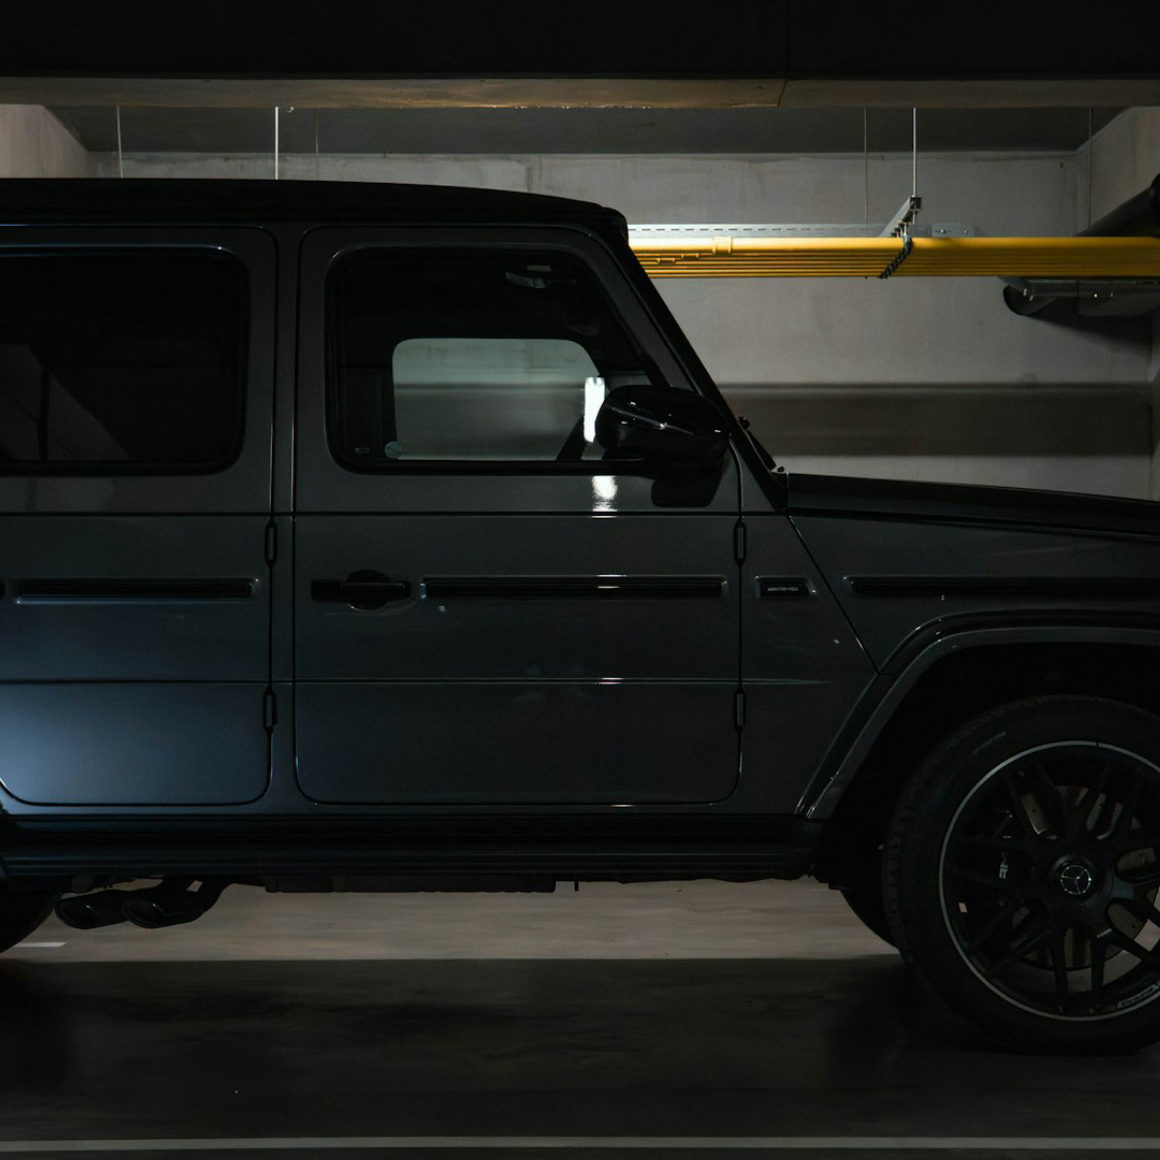
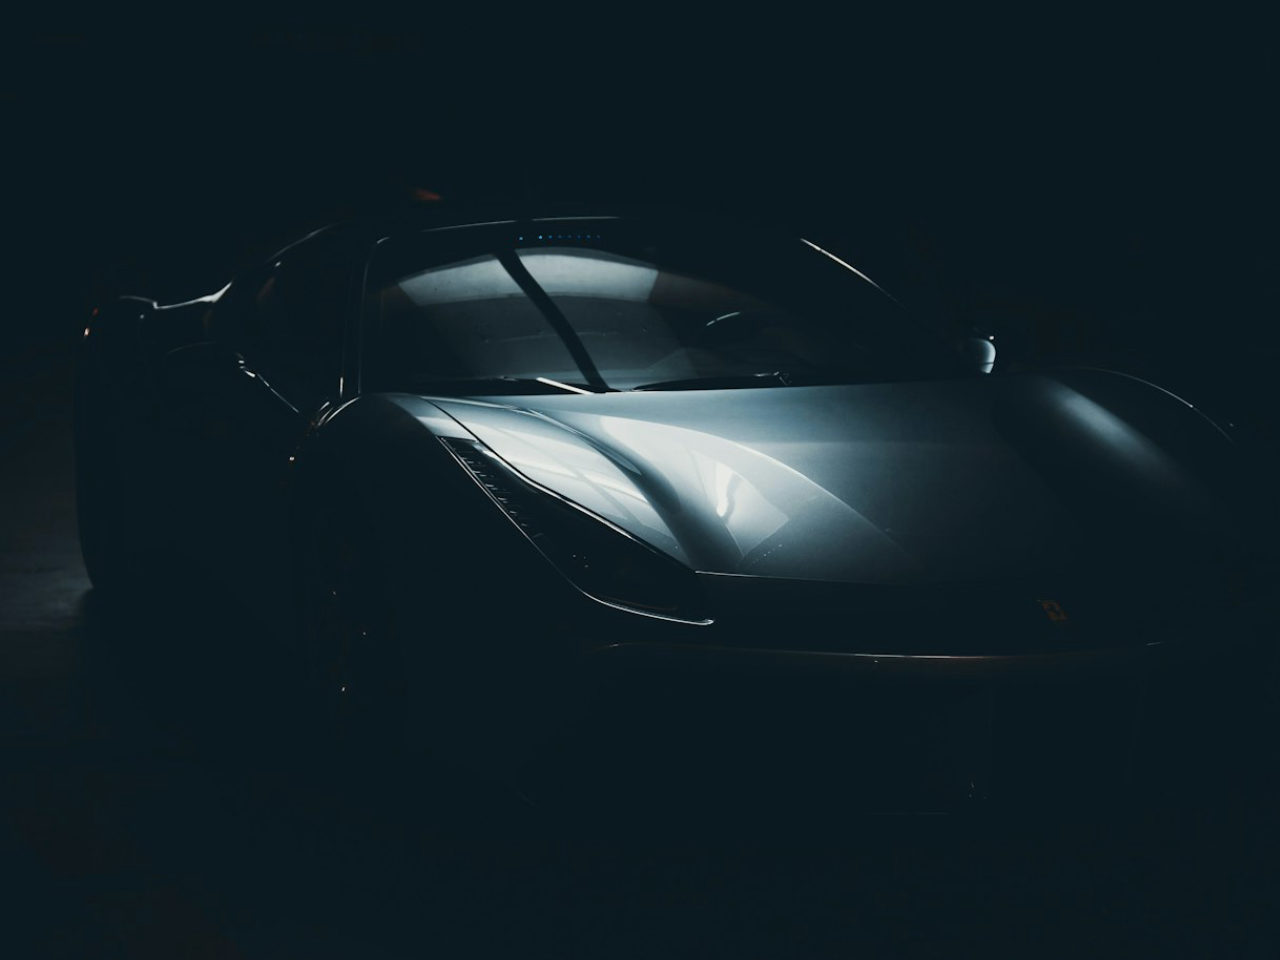
Первый экран + до/после + выпадающий список услуг
- Заголовок заменён на цитату, «кто сидит за рулём» — хром-акцент.
- Новое фото героя (драматичный тёмный спорткар) + анимация: блик-проводка по кузову и медленный зум вместо вращающегося кольца.
- До/После переделаны в драг-слайдеры (как на Лапках): clip-path + ползунок, две реальные пары грязный→чистый.
- «Услуга» — кастомный дропдаун вместо нативного select: все опции читаемы на тёмной теме.

diff --git a/styles.css b/styles.css
@@ -121,6 +121,7 @@ svg.icon.fill, svg.fill { fill: currentColor; stroke: none; }
 .hero-glow { position: absolute; top: -14%; right: -8%; width: 780px; height: 780px; border-radius: 50%; background: radial-gradient(circle, rgba(170, 178, 190, .16), transparent 62%); filter: blur(10px); z-index: 0; pointer-events: none; }
 .hero-grid { position: relative; z-index: 1; display: grid; grid-template-columns: 1.08fr .92fr; gap: 40px; align-items: center; }
 .hero-title { font-size: clamp(2.5rem, 5.6vw, 4.5rem); text-transform: uppercase; letter-spacing: -.015em; line-height: .98; margin: 6px 0 22px; }
+.hero-quote { text-transform: none; font-size: clamp(1.5rem, 3vw, 2.7rem); line-height: 1.22; letter-spacing: -.01em; font-weight: 800; max-width: 640px; }
 .hero-sub { font-size: clamp(1rem, 1.3vw, 1.18rem); color: var(--text); max-width: 500px; }
 .hero-actions { display: flex; flex-wrap: wrap; gap: 14px; margin: 30px 0 38px; }
 .hero-stats { display: flex; gap: 34px; flex-wrap: wrap; border-top: 1px solid var(--line); padding-top: 26px; }
@@ -129,11 +130,12 @@ svg.icon.fill, svg.fill { fill: currentColor; stroke: none; }
 .hero-rating b { display: flex; align-items: center; gap: 7px; width: max-content; }
 .hero-rating .icon { width: 19px; height: 19px; fill: var(--silver); stroke: none; }
 
-.hero-media { position: relative; justify-self: center; width: min(520px, 94%); aspect-ratio: 1 / 1; }
-.hero-ring { position: absolute; inset: -2%; border-radius: 50%; background: conic-gradient(from 210deg, transparent 0 8%, rgba(217, 220, 226, .9) 22%, transparent 42%, transparent 58%, rgba(154, 160, 169, .75) 74%, transparent 90%); -webkit-mask: radial-gradient(farthest-side, transparent 71.5%, #000 72.5%); mask: radial-gradient(farthest-side, transparent 71.5%, #000 72.5%); animation: spin 22s linear infinite; }
-.hero-medallion { position: absolute; inset: 5.5%; border-radius: 50%; overflow: hidden; border: 1px solid var(--line-2); box-shadow: 0 50px 110px -40px rgba(0, 0, 0, .95), inset 0 0 60px rgba(0, 0, 0, .55); }
-.hero-medallion img { width: 100%; height: 100%; object-fit: cover; object-position: 50% 48%; transition: transform 1.2s var(--ease); }
-.hero-media:hover .hero-medallion img { transform: scale(1.06); }
+.hero-media { position: relative; justify-self: center; width: min(560px, 100%); }
+.hero-frame { position: relative; margin: 0; border-radius: var(--radius-lg); overflow: hidden; border: 1px solid var(--line-2); box-shadow: 0 50px 110px -42px rgba(0, 0, 0, .95), inset 0 0 70px rgba(0, 0, 0, .35); aspect-ratio: 4 / 3; }
+.hero-frame img { width: 100%; height: 100%; object-fit: cover; object-position: 50% 50%; transform: scale(1.04); animation: heroZoom 20s ease-in-out infinite alternate; }
+.hero-shine { position: absolute; top: 0; left: -60%; width: 45%; height: 100%; background: linear-gradient(100deg, transparent, rgba(255, 255, 255, .16) 50%, transparent); transform: skewX(-18deg); pointer-events: none; animation: heroShine 7s ease-in-out infinite; }
+@keyframes heroZoom { from { transform: scale(1.03); } to { transform: scale(1.1); } }
+@keyframes heroShine { 0% { left: -60%; } 60%, 100% { left: 135%; } }
 .hero-badge { position: absolute; display: inline-flex; align-items: center; gap: 10px; padding: 11px 15px; border-radius: 14px; background: rgba(20, 20, 24, .82); backdrop-filter: blur(10px); border: 1px solid var(--line-2); box-shadow: var(--shadow-sm); font-size: 12.5px; font-weight: 700; color: var(--ink); line-height: 1.2; }
 .hero-badge .icon { width: 22px; height: 22px; color: var(--silver); }
 .hero-badge span { font-weight: 600; color: var(--text); }
@@ -184,17 +186,22 @@ svg.icon.fill, svg.fill { fill: currentColor; stroke: none; }
 .work img { width: 100%; height: 100%; object-fit: cover; transition: transform .6s var(--ease); }
 .work:hover img { transform: scale(1.08); }
 .work figcaption { position: absolute; left: 0; right: 0; bottom: 0; padding: 30px 16px 14px; font-size: 14px; font-weight: 700; color: #fff; background: linear-gradient(180deg, transparent, rgba(6, 6, 8, .85)); }
-.ba-title { font-size: clamp(1.5rem, 2.6vw, 2rem); text-align: center; margin-bottom: 30px; }
+.ba-title { font-size: clamp(1.5rem, 2.6vw, 2rem); text-align: center; margin-bottom: 10px; }
+.ba-hint { display: flex; align-items: center; justify-content: center; gap: 8px; color: var(--muted); font-size: 13.5px; margin-bottom: 32px; }
+.ba-hint .icon { width: 17px; height: 17px; color: var(--silver-2); }
 .ba-grid { display: grid; grid-template-columns: 1fr 1fr; gap: 24px; }
-.ba { margin: 0; }
-.ba-pair { display: grid; grid-template-columns: 1fr 1fr; gap: 8px; border-radius: var(--radius); overflow: hidden; border: 1px solid var(--line); }
-.ba-img { position: relative; aspect-ratio: 4 / 3; overflow: hidden; }
-.ba-img img { width: 100%; height: 100%; object-fit: cover; transition: transform .6s var(--ease); }
-.ba:hover .ba-img img { transform: scale(1.06); }
-.ba-tag { position: absolute; top: 12px; left: 12px; padding: 5px 13px; border-radius: 999px; font-size: 12px; font-weight: 800; letter-spacing: .04em; text-transform: uppercase; backdrop-filter: blur(6px); }
-.ba-tag--before { background: rgba(14, 14, 17, .78); color: var(--silver); border: 1px solid var(--line-2); }
-.ba-tag--after { background: var(--cta); color: var(--cta-ink); }
-.ba figcaption { margin-top: 16px; text-align: center; font-size: 15px; font-weight: 700; color: var(--ink); }
+.ba-item { margin: 0; }
+.ba { --pos: 50%; position: relative; aspect-ratio: 4 / 3; border-radius: var(--radius); overflow: hidden; border: 1px solid var(--line); box-shadow: var(--shadow-sm); user-select: none; touch-action: pan-y; cursor: ew-resize; }
+.ba-after, .ba-before { position: absolute; inset: 0; }
+.ba-after img, .ba-before img { width: 100%; height: 100%; object-fit: cover; display: block; }
+.ba-before { clip-path: inset(0 calc(100% - var(--pos)) 0 0); }
+.ba-tag { position: absolute; top: 12px; padding: 5px 13px; border-radius: 999px; font-size: 12px; font-weight: 800; letter-spacing: .05em; text-transform: uppercase; backdrop-filter: blur(6px); pointer-events: none; }
+.ba-tag-before { left: 12px; background: rgba(14, 14, 17, .8); color: var(--silver); border: 1px solid var(--line-2); }
+.ba-tag-after { right: 12px; background: var(--cta); color: var(--cta-ink); }
+.ba-handle { position: absolute; top: 0; bottom: 0; left: var(--pos); width: 2px; background: rgba(255, 255, 255, .92); transform: translateX(-50%); pointer-events: none; box-shadow: 0 0 14px rgba(0, 0, 0, .55); }
+.ba-handle .icon { position: absolute; top: 50%; left: 50%; transform: translate(-50%, -50%); width: 42px; height: 42px; padding: 11px; border-radius: 50%; background: var(--cta); color: var(--cta-ink); box-shadow: var(--shadow-sm); stroke-width: 2; }
+.ba-range { position: absolute; inset: 0; width: 100%; height: 100%; margin: 0; opacity: 0; cursor: ew-resize; }
+.ba-item figcaption { margin-top: 16px; text-align: center; font-size: 15px; font-weight: 700; color: var(--ink); }
 
 /* ---------------- About ---------------- */
 .about { background: linear-gradient(180deg, var(--bg-2), var(--bg)); }
@@ -264,6 +271,18 @@ svg.icon.fill, svg.fill { fill: currentColor; stroke: none; }
 .bk-pick.ready { border-style: solid; color: var(--ink); }
 .bk-pick.ready .icon { color: var(--silver); }
 .bk-note { margin-top: 14px; font-size: 12.5px; color: var(--faint); text-align: center; }
+
+/* Custom select (service dropdown) */
+.cselect { position: relative; }
+.cselect-btn { width: 100%; display: flex; align-items: center; justify-content: space-between; gap: 10px; font-family: inherit; font-size: 15px; font-weight: 500; color: var(--ink); background: rgba(255, 255, 255, .03); border: 1px solid var(--line-2); border-radius: 11px; padding: 13px 14px; cursor: pointer; transition: .2s; text-align: left; }
+.cselect-btn:hover, .cselect.open .cselect-btn { border-color: var(--silver); background: rgba(255, 255, 255, .06); }
+.cselect-arr { width: 16px; height: 16px; color: var(--silver-2); transform: rotate(-90deg); transition: transform .25s var(--ease); flex: none; }
+.cselect.open .cselect-arr { transform: rotate(90deg); }
+.cselect-list { position: absolute; top: calc(100% + 8px); left: 0; right: 0; z-index: 30; margin: 0; padding: 6px; list-style: none; background: #15161b; border: 1px solid var(--line-2); border-radius: 12px; box-shadow: var(--shadow); max-height: 300px; overflow: auto; opacity: 0; transform: translateY(-6px); pointer-events: none; transition: opacity .2s var(--ease), transform .2s var(--ease); }
+.cselect.open .cselect-list { opacity: 1; transform: none; pointer-events: auto; }
+.cselect-opt { padding: 11px 12px; border-radius: 9px; color: var(--text); font-size: 15px; cursor: pointer; transition: .15s; }
+.cselect-opt:hover { background: rgba(255, 255, 255, .08); color: var(--ink); }
+.cselect-opt.is-sel { color: var(--ink); background: rgba(255, 255, 255, .05); font-weight: 700; }
 
 /* ---------------- Contacts ---------------- */
 .contacts { background: linear-gradient(180deg, var(--bg), var(--bg-2)); }
@@ -349,7 +368,6 @@ svg.icon.fill, svg.fill { fill: currentColor; stroke: none; }
   .hero { padding: calc(var(--header-h) + 30px) 0 50px; }
   .container { padding: 0 18px; }
   .ba-grid { grid-template-columns: 1fr; }
-  .ba-pair { grid-template-columns: 1fr 1fr; }
   .hero-stats { gap: 22px; }
   .hero-stats b { font-size: 22px; }
   .bk-fields { grid-template-columns: 1fr; }
@@ -363,6 +381,6 @@ svg.icon.fill, svg.fill { fill: currentColor; stroke: none; }
 /* ---------------- Reduced motion ---------------- */
 @media (prefers-reduced-motion: reduce) {
   .reveal { opacity: 1 !important; transform: none !important; transition: none !important; }
-  .hero-ring, .hero-badge, .scroll-hint .icon { animation: none !important; }
-  .btn, .service-card, .work img, .ba-img img, .about-media img, .hero-medallion img { transition: none !important; }
+  .hero-frame img, .hero-shine, .hero-badge, .scroll-hint .icon { animation: none !important; }
+  .btn, .service-card, .work img, .about-media img, .hero-frame img { transition: none !important; }
 }

diff --git a/index.html b/index.html
@@ -44,6 +44,7 @@
       <symbol id="i-tag" viewBox="0 0 24 24"><path d="M20 12l-8 8-9-9V4h7l10 8z"/><circle cx="7.6" cy="7.6" r="1.6"/></symbol>
       <symbol id="i-telegram" viewBox="0 0 24 24" class="fill"><path d="M21.6 4.3L2.9 11.5c-.9.35-.86 1.66.07 1.95l4.6 1.43 1.77 5.3c.2.6.98.75 1.4.27l2.5-2.78 4.63 3.4c.52.38 1.26.1 1.4-.53l3.1-14.1c.17-.76-.57-1.4-1.3-1.1zM9.9 14.3l8.4-5.2c.15-.09.3.12.17.24l-6.9 6.3c-.24.22-.4.53-.44.86l-.24 2.2-1-4.6z"/></symbol>
       <symbol id="i-send" viewBox="0 0 24 24"><path d="M4 11.5L20 4l-5.5 16-3-7-7.5-1.5z"/><path d="M11.5 13.5L20 4"/></symbol>
+      <symbol id="i-drag" viewBox="0 0 24 24"><path d="M9.5 7l-4.5 5 4.5 5M14.5 7l4.5 5-4.5 5"/></symbol>
     </defs>
   </svg>
 
@@ -89,7 +90,7 @@
       <div class="container hero-grid">
         <div class="hero-copy">
           <p class="eyebrow">Автосервис · Тюнинг · Детейлинг</p>
-          <h1 class="hero-title">Тюнинг.<br/>Детейлинг.<br/><span class="chrome-text">Автосервис.</span></h1>
+          <h1 class="hero-title hero-quote">«Не&nbsp;важно, что у&nbsp;машины под&nbsp;капотом. Самое главное&nbsp;— это&nbsp;то, <span class="chrome-text">кто сидит за&nbsp;рулём</span>».</h1>
           <p class="hero-sub">Превращаем авто в&nbsp;идеал. Современное оборудование, опытные мастера и&nbsp;индивидуальный подход к&nbsp;каждому автомобилю.</p>
           <div class="hero-actions">
             <a class="btn btn-primary btn-lg" href="#booking">Записаться <svg class="icon"><use href="#i-arrow"/></svg></a>
@@ -103,10 +104,10 @@
         </div>
 
         <div class="hero-media">
-          <div class="hero-ring" aria-hidden="true"></div>
-          <div class="hero-medallion">
-            <img src="assets/hero.jpg" alt="Тонированный Mercedes G-Class в боксе APEX Auto Studio" width="560" height="560" fetchpriority="high" />
-          </div>
+          <figure class="hero-frame">
+            <img src="assets/hero.jpg" alt="Премиальный автомобиль в студии APEX Auto Studio" width="1280" height="960" fetchpriority="high" />
+            <span class="hero-shine" aria-hidden="true"></span>
+          </figure>
           <div class="hero-badge hero-badge--1"><svg class="icon"><use href="#i-shield"/></svg><span>Гарантия<br/>на&nbsp;работы</span></div>
           <div class="hero-badge hero-badge--2"><svg class="icon"><use href="#i-sparkle"/></svg><span>Детейлинг<br/>премиум</span></div>
         </div>
@@ -189,18 +190,27 @@
         </div>
 
         <h3 class="ba-title reveal">До&nbsp;/&nbsp;После</h3>
+        <p class="ba-hint reveal"><svg class="icon"><use href="#i-drag"/></svg> Потяните ползунок, чтобы сравнить</p>
         <div class="ba-grid">
-          <figure class="ba reveal">
-            <div class="ba-pair">
-              <div class="ba-img"><img src="assets/ba-before-1.jpg" alt="Грязный кузов до детейлинга" loading="lazy" width="840" height="630"/><span class="ba-tag ba-tag--before">До</span></div>
-              <div class="ba-img"><img src="assets/ba-after-1.jpg" alt="Кузов после полировки — зеркальный блеск" loading="lazy" width="840" height="630"/><span class="ba-tag ba-tag--after">После</span></div>
+          <figure class="ba-item reveal">
+            <div class="ba">
+              <div class="ba-after"><img src="assets/ba-after-1.jpg" alt="Кузов после полировки — зеркальный блеск" loading="lazy" width="840" height="630"/></div>
+              <div class="ba-before"><img src="assets/ba-before-1.jpg" alt="Грязный кузов до детейлинга" loading="lazy" width="840" height="630"/></div>
+              <span class="ba-tag ba-tag-before">До</span>
+              <span class="ba-tag ba-tag-after">После</span>
+              <div class="ba-handle" aria-hidden="true"><svg class="icon"><use href="#i-drag"/></svg></div>
+              <input class="ba-range" type="range" min="0" max="100" value="50" aria-label="Сравнить до и после — детейлинг кузова" />
             </div>
             <figcaption>Детейлинг кузова &amp; защитная полировка</figcaption>
           </figure>
-          <figure class="ba reveal">
-            <div class="ba-pair">
-              <div class="ba-img"><img src="assets/ba-before-2.jpg" alt="Грязный внедорожник до мойки" loading="lazy" width="840" height="630"/><span class="ba-tag ba-tag--before">До</span></div>
-              <div class="ba-img"><img src="assets/ba-after-2.jpg" alt="Чистый автомобиль после комплексной мойки" loading="lazy" width="840" height="630"/><span class="ba-tag ba-tag--after">После</span></div>
+          <figure class="ba-item reveal">
+            <div class="ba">
+              <div class="ba-after"><img src="assets/ba-after-2.jpg" alt="Чистый автомобиль после комплексной мойки" loading="lazy" width="840" height="630"/></div>
+              <div class="ba-before"><img src="assets/ba-before-2.jpg" alt="Грязный внедорожник до мойки" loading="lazy" width="840" height="630"/></div>
+              <span class="ba-tag ba-tag-before">До</span>
+              <span class="ba-tag ba-tag-after">После</span>
+              <div class="ba-handle" aria-hidden="true"><svg class="icon"><use href="#i-drag"/></svg></div>
+              <input class="ba-range" type="range" min="0" max="100" value="50" aria-label="Сравнить до и после — комплексная мойка" />
             </div>
             <figcaption>Комплексная мойка &amp; химчистка</figcaption>
           </figure>
@@ -267,17 +277,23 @@
 
           <div class="bk-form">
             <div class="bk-fields">
-              <label class="field">
+              <div class="field">
                 <span>Услуга</span>
-                <select id="bkService">
-                  <option value="Диагностика">Диагностика</option>
-                  <option value="Ремонт двигателя">Ремонт двигателя</option>
-                  <option value="Тюнинг">Тюнинг</option>
-                  <option value="Детейлинг">Детейлинг</option>
-                  <option value="Оклейка плёнкой">Оклейка плёнкой</option>
-                  <option value="Шиномонтаж">Шиномонтаж</option>
-                </select>
-              </label>
+                <div class="cselect" id="bkService" data-value="Диагностика">
+                  <button class="cselect-btn" type="button" aria-haspopup="listbox" aria-expanded="false">
+                    <span class="cselect-val">Диагностика</span>
+                    <svg class="icon cselect-arr"><use href="#i-chevron"/></svg>
+                  </button>
+                  <ul class="cselect-list" role="listbox" aria-label="Выберите услугу">
+                    <li class="cselect-opt is-sel" role="option" data-value="Диагностика">Диагностика</li>
+                    <li class="cselect-opt" role="option" data-value="Ремонт двигателя">Ремонт двигателя</li>
+                    <li class="cselect-opt" role="option" data-value="Тюнинг">Тюнинг</li>
+                    <li class="cselect-opt" role="option" data-value="Детейлинг">Детейлинг</li>
+                    <li class="cselect-opt" role="option" data-value="Оклейка плёнкой">Оклейка плёнкой</li>
+                    <li class="cselect-opt" role="option" data-value="Шиномонтаж">Шиномонтаж</li>
+                  </ul>
+                </div>
+              </div>
               <label class="field">
                 <span>Ваше имя</span>
                 <input id="bkName" type="text" autocomplete="name" placeholder="Как к вам обращаться" />

diff --git a/script.js b/script.js
@@ -199,7 +199,7 @@
       }
       if (!ok) return;
       // ---- Ready for backend: send { service, date, time, name, phone } here. ----
-      const text = "Услуга: " + serviceEl.value + " · " + fmt(selDate) + " в " + selTime +
+      const text = "Услуга: " + serviceEl.dataset.value + " · " + fmt(selDate) + " в " + selTime +
         ". Мы свяжемся с вами по номеру " + phoneEl.value.trim() + " для подтверждения.";
       openModal(text);
       // reset
@@ -211,6 +211,49 @@
     renderSlots();
     updatePick();
   })();
+
+  /* ---- Custom selects (service dropdown — readable on dark theme) ---- */
+  $$(".cselect").forEach((sel) => {
+    const btn = $(".cselect-btn", sel);
+    const valEl = $(".cselect-val", sel);
+    if (!btn || !valEl) return;
+    btn.addEventListener("click", (e) => {
+      e.stopPropagation();
+      const open = sel.classList.toggle("open");
+      btn.setAttribute("aria-expanded", String(open));
+    });
+    $$(".cselect-opt", sel).forEach((opt) => {
+      opt.addEventListener("click", () => {
+        sel.dataset.value = opt.dataset.value;
+        valEl.textContent = opt.textContent;
+        $$(".cselect-opt", sel).forEach((o) => o.classList.toggle("is-sel", o === opt));
+        sel.classList.remove("open");
+        btn.setAttribute("aria-expanded", "false");
+      });
+    });
+  });
+  document.addEventListener("click", () => {
+    $$(".cselect.open").forEach((s) => {
+      s.classList.remove("open");
+      const b = $(".cselect-btn", s);
+      if (b) b.setAttribute("aria-expanded", "false");
+    });
+  });
+
+  /* ---- Before / after sliders (drag to compare) ---- */
+  $$(".ba").forEach((ba) => {
+    const range = ba.querySelector(".ba-range");
+    if (!range) return;
+    const set = (v) => { v = Math.max(0, Math.min(100, v)); ba.style.setProperty("--pos", v + "%"); range.value = v; };
+    set(50);
+    range.addEventListener("input", () => set(+range.value));
+    const pct = (e) => { const r = ba.getBoundingClientRect(); return ((e.clientX - r.left) / r.width) * 100; };
+    let drag = false;
+    ba.addEventListener("pointerdown", (e) => { drag = true; try { ba.setPointerCapture(e.pointerId); } catch (x) {} set(pct(e)); e.preventDefault(); });
+    ba.addEventListener("pointermove", (e) => { if (drag) set(pct(e)); });
+    ba.addEventListener("pointerup", () => { drag = false; });
+    ba.addEventListener("pointercancel", () => { drag = false; });
+  });
 
   /* ---- Footer year ---- */
   $$("[data-year]").forEach((el) => (el.textContent = new Date().getFullYear()));

diff --git a/tools/process-images.js b/tools/process-images.js
@@ -8,7 +8,7 @@ const out = path.resolve(__dirname, "../assets");
 
 // [source, output, width, height, extra(img)=>void]
 const jobs = [
-  ["hero-a.jpg", "hero.jpg", 1160, 1160],              // circular hero medallion (G-Class)
+  ["hero2-b.jpg", "hero.jpg", 1280, 960],              // hero panel — dramatic dark sports car
   ["hero-b.jpg", "work-1.jpg", 900, 675],              // наши работы — спорткар
   ["work-interior.jpg", "work-2.jpg", 900, 675],       // детейлинг салона
   ["work-wheel.jpg", "work-3.jpg", 900, 675],          // диски / тюнинг
@@ -16,7 +16,7 @@ const jobs = [
   ["dirty-black.jpg", "ba-before-1.jpg", 840, 630],    // до — грязный кузов
   ["work-bw.jpg", "ba-after-1.jpg", 840, 630],         // после — зеркальный блеск
   ["dirty-suv.jpg", "ba-before-2.jpg", 840, 630],      // до — грязный внедорожник
-  ["work-lexus.jpg", "ba-after-2.jpg", 840, 630],      // после — чистый глянец
+  ["clean-suv.jpg", "ba-after-2.jpg", 840, 630],       // после — чистый тёмный внедорожник
   ["garage.jpg", "about.jpg", 1100, 760],              // мастерская
 ];
 
